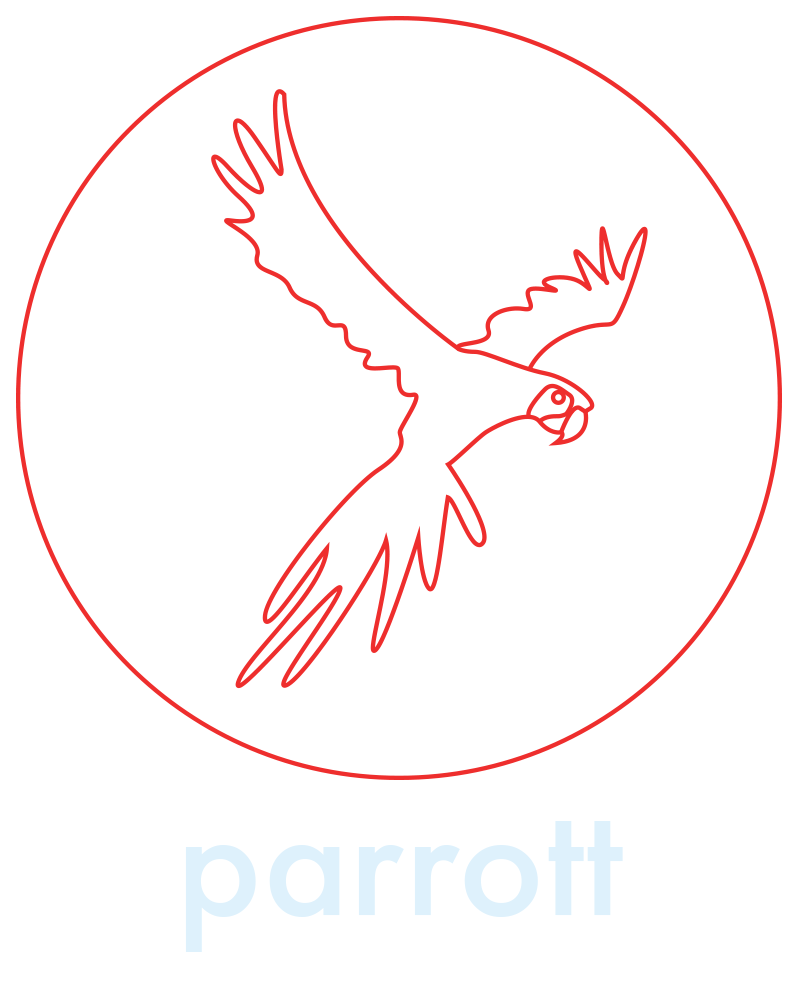
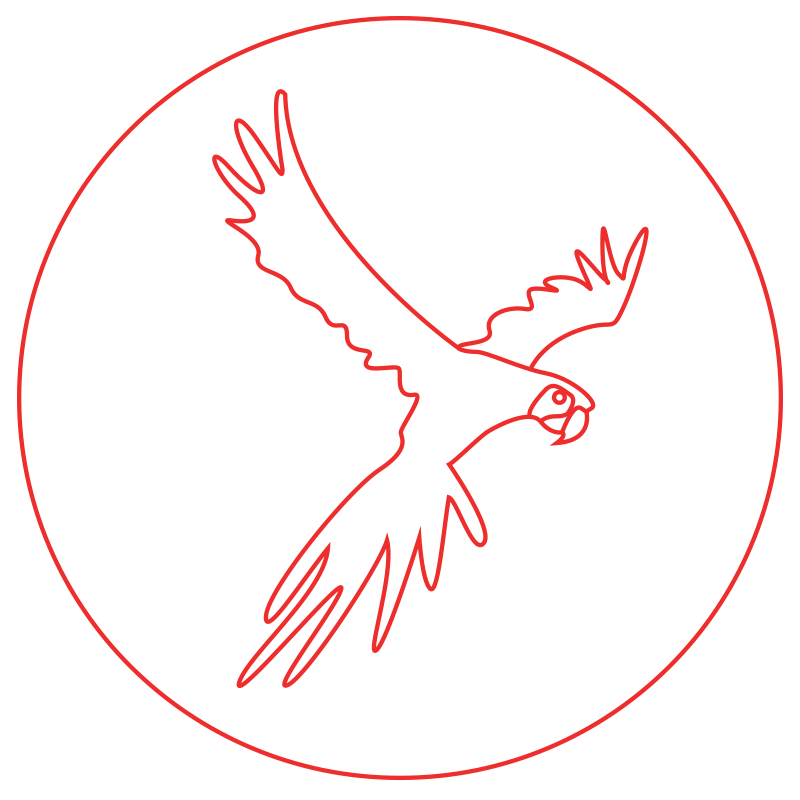
styling changes

diff --git a/style/style.css b/style/style.css
@@ -58,7 +58,9 @@ header {
   width: 100%;
   margin: 0 auto;
   padding: 2em;
-  text-align: center; }
+  text-align: center;
+  background: #fff;
+  color: #111; }
   header img {
     width: 100%;
     max-width: 240px;
@@ -87,7 +89,7 @@ section {
 
 footer {
   text-align: center;
-  padding: 2em 0;
+  padding: 2em;
   font-size: 0.8em;
   color: #888; }
   footer a, footer a:visited {

diff --git a/style/style.scss b/style/style.scss
@@ -58,6 +58,8 @@ header {
     margin:0 auto;
     padding:2em;
     text-align:center;
+    background:#fff;
+    color:#111;
 
     img {
         width:100%;
@@ -96,7 +98,7 @@ section {
 
 footer {
     text-align:center;
-    padding:2em 0;
+    padding:2em;
     font-size:0.8em;
     color:#888;
 

diff --git a/index.html b/index.html
@@ -20,6 +20,7 @@
         <header>
 	       <img src="img/parrott.png" class="parrott">
 
+           <h1>parrott</h1>
            <h4>A pseudo-intelligent retweeter</h4>
            <a href="https://github.com/ftzeng/parrott">parrott on github</a>
         </header>
